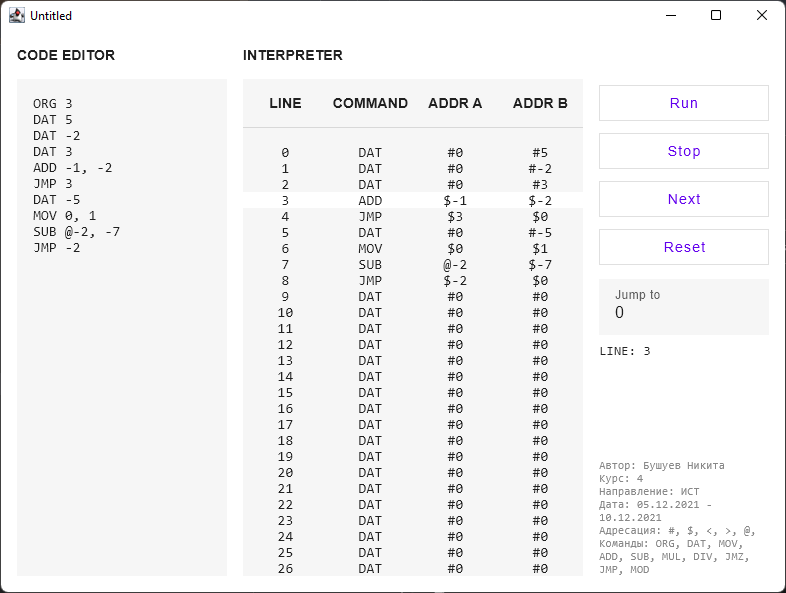
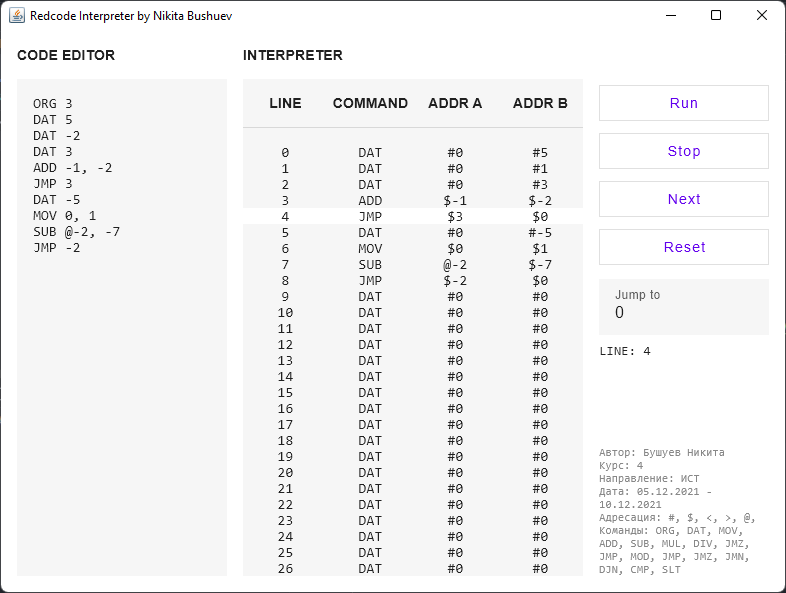
Add label to program and update screenshot

Changed region(s): [[0.7634, 0.7589, 0.9771, 0.9713], [0.0, 0.0, 0.3053, 0.0607], [0.6718, 0.2732, 0.7023, 0.3035]]

diff --git a/src/main/kotlin/ui/Main.kt b/src/main/kotlin/ui/Main.kt
@@ -35,7 +35,10 @@ fun App() {
 }
 
 fun main() = application {
-    Window(onCloseRequest = ::exitApplication) {
+    Window(
+        title = "Redcode Interpreter by Nikita Bushuev",
+        onCloseRequest = ::exitApplication
+    ) {
         App()
     }
 }
